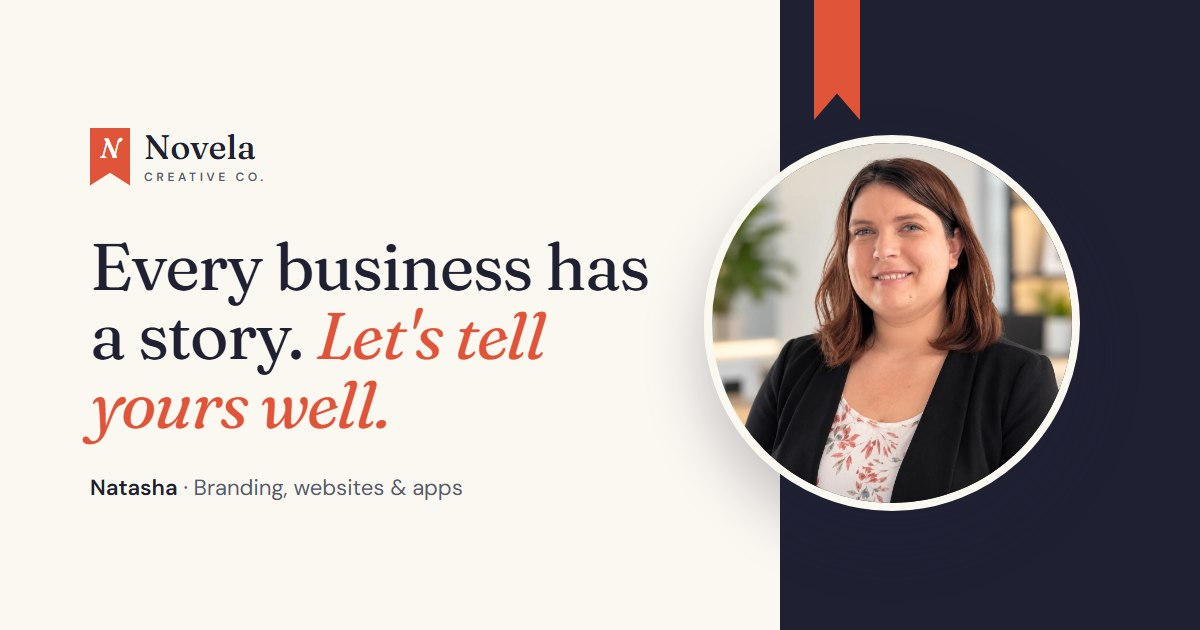
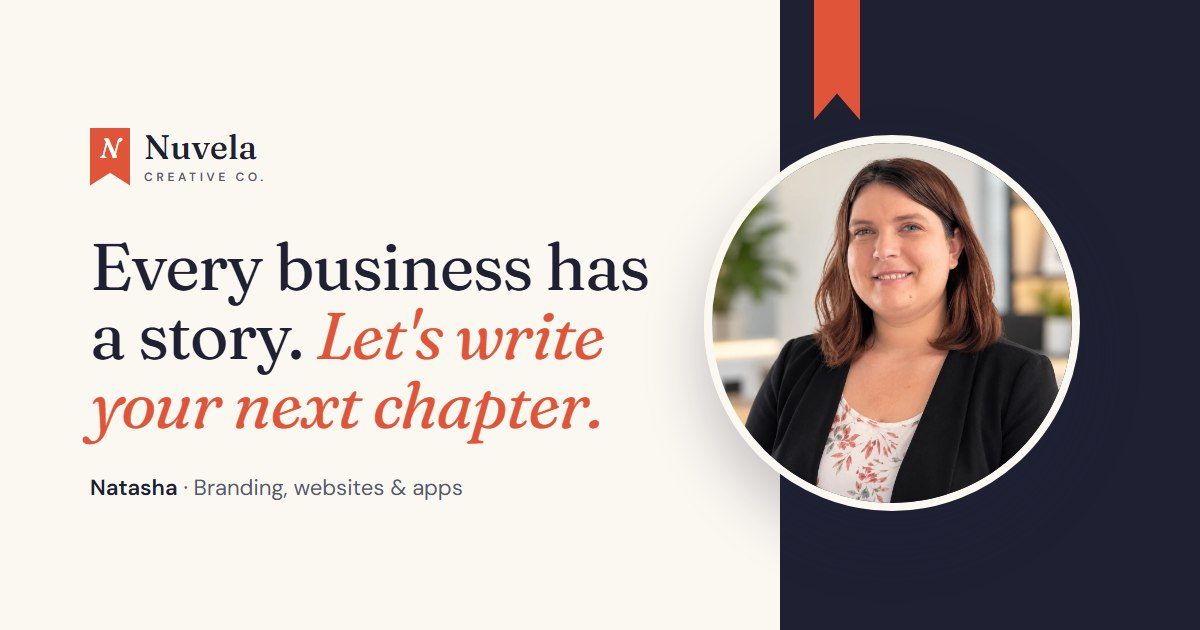
Fix brand spelling: Nuvela (new + story), and tie the copy to that meaning

Changed region(s): [[0.185, 0.6032, 0.4933, 0.7238], [0.37, 0.4825, 0.5242, 0.573], [0.1233, 0.2111, 0.2158, 0.2714]]

diff --git a/hardy-web-design/hardy-web-design/public/index.html b/hardy-web-design/hardy-web-design/public/index.html
@@ -3,10 +3,10 @@
 <head>
   <meta charset="utf-8">
   <meta name="viewport" content="width=device-width, initial-scale=1">
-  <title>Novela Creative Co | Branding, Websites &amp; Apps</title>
-  <meta name="description" content="Novela Creative Co is a Michigan creative studio. We design logos and brand identities, build websites, and create custom apps for small businesses, makers and community organizations.">
-  <meta property="og:title" content="Novela Creative Co">
-  <meta property="og:description" content="Branding, websites and apps for small businesses. Every business has a story. Let's tell yours well.">
+  <title>Nuvela Creative Co | Branding, Websites &amp; Apps</title>
+  <meta name="description" content="Nuvela Creative Co is a Michigan creative studio. We design logos and brand identities, build websites, and create custom apps for small businesses, makers and community organizations.">
+  <meta property="og:title" content="Nuvela Creative Co">
+  <meta property="og:description" content="Branding, websites and apps for small businesses. Every business has a story. Let's write your next chapter.">
   <meta property="og:image" content="https://hardywebdesign.vercel.app/images/card-share.jpg">
   <meta name="twitter:card" content="summary_large_image">
   <meta name="theme-color" content="#FBF7F1">
@@ -21,9 +21,9 @@
 
   <header class="nav" id="top">
     <div class="wrap nav__inner">
-      <a class="logo" href="#top" aria-label="Novela Creative Co home">
+      <a class="logo" href="#top" aria-label="Nuvela Creative Co home">
         <span class="logo__mark" aria-hidden="true">N</span>
-        <span class="logo__text">Novela<small>Creative Co.</small></span>
+        <span class="logo__text">Nuvela<small>Creative Co.</small></span>
       </a>
       <button class="nav__toggle" aria-expanded="false" aria-controls="nav-links">
         <span></span><span></span><span class="sr">Menu</span>
@@ -45,8 +45,8 @@
       <div class="wrap hero__grid">
         <div class="hero__copy">
           <p class="eyebrow">Branding · Websites · Apps</p>
-          <h1>Every business has a story. <em>Let&#39;s tell <span class="underline">yours</span> well.</em></h1>
-          <p class="lede">Novela Creative Co is a Michigan creative studio for small businesses, makers and community organizations. We design logos and brand identities, build websites, and create custom apps, so the way you show up matches the work you do.</p>
+          <h1>Every business has a story. <em>Let&#39;s write <span class="underline">your</span> next chapter.</em></h1>
+          <p class="lede">Nuvela Creative Co is a Michigan creative studio for small businesses, makers and community organizations. We design logos and brand identities, build websites, and create custom apps, so the way you show up matches the work you do.</p>
           <div class="hero__ctas">
             <a class="btn" href="/questionnaire">Start a project</a>
             <a class="link-arrow" href="#work">See our work <span aria-hidden="true">→</span></a>
@@ -294,13 +294,14 @@
     <section class="section" id="about">
       <div class="wrap about">
         <figure class="about__photo reveal">
-          <img src="images/natasha.webp" alt="Natasha, founder of Novela Creative Co, smiling in a black blazer" width="1254" height="1254" loading="lazy">
+          <img src="images/natasha.webp" alt="Natasha, founder of Nuvela Creative Co, smiling in a black blazer" width="1254" height="1254" loading="lazy">
           <figcaption><strong>Natasha</strong>Founder &amp; Creative Director</figcaption>
         </figure>
         <div class="about__copy reveal">
           <p class="eyebrow">About</p>
-          <h2>The person behind <em>Novela.</em></h2>
-          <p>I&#39;m Natasha, founder of Novela Creative Co. I help small businesses, makers and community organizations look professional and run more smoothly, through thoughtful branding, well-built websites and practical custom apps.</p>
+          <h2>The person behind <em>Nuvela.</em></h2>
+          <p>I&#39;m Natasha, founder of Nuvela Creative Co. I help small businesses, makers and community organizations look professional and run more smoothly, through thoughtful branding, well-built websites and practical custom apps.</p>
+          <p>The name comes from <em>nu</em>, meaning new, and <em>novela</em>, meaning story. That&#39;s what I help businesses create: a fresh chapter, told well.</p>
           <p>My work ranges from a nail artist&#39;s online shop and a scholarship pageant&#39;s fundraising sites to a crochet pattern app and an on-site estimating tool for a flooring company. Every project starts the same way: understanding how your business runs, who your customers are, and what story you want to tell.</p>
           <p>You work directly with me from the first conversation through launch and beyond. I explain things in plain language, keep pricing clear, and set you up so you can make everyday updates yourself.</p>
           <ul class="about__list">
@@ -369,7 +370,7 @@
   <footer class="footer">
     <div class="wrap footer__inner">
       <div>
-        <a class="logo" href="#top"><span class="logo__mark" aria-hidden="true">N</span><span class="logo__text">Novela<small>Creative Co.</small></span></a>
+        <a class="logo" href="#top"><span class="logo__mark" aria-hidden="true">N</span><span class="logo__text">Nuvela<small>Creative Co.</small></span></a>
         <p class="footer__tag">Branding, websites and apps for small businesses. Based in Michigan.</p>
       </div>
       <nav class="footer__links" aria-label="Footer">
@@ -378,7 +379,7 @@
         <a href="/questionnaire">Start a project</a>
         <a href="/card">Digital card</a>
       </nav>
-      <p class="footer__copy">© <span id="year"></span> Novela Creative Co.</p>
+      <p class="footer__copy">© <span id="year"></span> Nuvela Creative Co.</p>
     </div>
   </footer>
 

diff --git a/hardy-web-design/hardy-web-design/public/card.html b/hardy-web-design/hardy-web-design/public/card.html
@@ -3,11 +3,11 @@
 <head>
   <meta charset="utf-8">
   <meta name="viewport" content="width=device-width, initial-scale=1, viewport-fit=cover">
-  <title>Natasha · Novela Creative Co</title>
-  <meta name="description" content="Natasha, founder of Novela Creative Co. Logos and branding, websites and custom apps for small businesses.">
+  <title>Natasha · Nuvela Creative Co</title>
+  <meta name="description" content="Natasha, founder of Nuvela Creative Co. Logos and branding, websites and custom apps for small businesses.">
   <!-- Link previews when the card is texted or shared. Update the domain in og:url and og:image when the custom domain is live. -->
   <meta property="og:type" content="profile">
-  <meta property="og:title" content="Natasha · Novela Creative Co">
+  <meta property="og:title" content="Natasha · Nuvela Creative Co">
   <meta property="og:description" content="Branding, websites and apps for small businesses. Tap to call, save my contact info or start a project.">
   <meta property="og:url" content="https://hardywebdesign.vercel.app/card">
   <meta property="og:image" content="https://hardywebdesign.vercel.app/images/card-share.jpg">
@@ -41,7 +41,7 @@
 
     .banner { height: 132px; background: var(--ink); position: relative; }
     .banner::after {
-      /* the Novela bookmark hanging from the top edge */
+      /* the Nuvela bookmark hanging from the top edge */
       content: ""; position: absolute; right: 30px; top: 0; width: 28px; height: 58px; background: var(--accent);
       clip-path: polygon(0 0, 100% 0, 100% 100%, 50% 78%, 0 100%);
     }
@@ -113,7 +113,7 @@
 <body>
   <main class="card">
     <div class="banner">
-      <a class="logo" href="/"><b aria-hidden="true">N</b><span>Novela<small>Creative Co.</small></span></a>
+      <a class="logo" href="/"><b aria-hidden="true">N</b><span>Nuvela<small>Creative Co.</small></span></a>
     </div>
 
     <div class="photo">
@@ -209,7 +209,7 @@
 
     // Share: native share sheet on phones, copy the link everywhere else
     document.getElementById("share").addEventListener("click", async () => {
-      const data = { title: "Natasha · Novela Creative Co", text: "Here's Natasha's card from Novela Creative Co. Branding, websites and apps for small businesses:", url: cardUrl };
+      const data = { title: "Natasha · Nuvela Creative Co", text: "Here's Natasha's card from Nuvela Creative Co. Branding, websites and apps for small businesses:", url: cardUrl };
       if (navigator.share) {
         try { await navigator.share(data); return; } catch (e) { if (e.name === "AbortError") return; }
       }
@@ -228,7 +228,7 @@
         "VERSION:3.0",
         "N:;Natasha;;;",
         "FN:Natasha",
-        "ORG:Novela Creative Co",
+        "ORG:Nuvela Creative Co",
         "TEL;TYPE=CELL,VOICE:+1-616-244-8541",
         "TITLE:Founder & Creative Director",
         "URL:" + siteUrl,
@@ -239,7 +239,7 @@
       const blob = new Blob([vcard], { type: "text/vcard;charset=utf-8" });
       const a = document.createElement("a");
       a.href = URL.createObjectURL(blob);
-      a.download = "Natasha-Novela-Creative-Co.vcf";
+      a.download = "Natasha-Nuvela-Creative-Co.vcf";
       document.body.appendChild(a);
       a.click();
       a.remove();

diff --git a/hardy-web-design/hardy-web-design/app/globals.css b/hardy-web-design/hardy-web-design/app/globals.css
@@ -1,6 +1,6 @@
 @import "tailwindcss";
 
-/* Novela Creative Co palette. Matches public/styles.css (home page) and public/card.html. Light-only, like the home page. */
+/* Nuvela Creative Co palette. Matches public/styles.css (home page) and public/card.html. Light-only, like the home page. */
 :root {
   --bg: #fbf7f1;
   --surface: #ffffff;
@@ -45,7 +45,7 @@ body {
 h1, h2 { text-wrap: balance; letter-spacing: -0.015em; }
 h1 em, h2 em { font-style: italic; color: var(--accent-bright); }
 
-/* Logo: the Novela bookmark, same as the home page */
+/* Logo: the Nuvela bookmark, same as the home page */
 .logo-mark {
   display: grid; place-items: start center; width: 34px; height: 44px; padding-top: 5px;
   background: var(--accent-bright); color: #fff;
@@ -55,12 +55,12 @@ h1 em, h2 em { font-style: italic; color: var(--accent-bright); }
 }
 .logo:hover .logo-mark { transform: translateY(-3px); }
 
-.btn-novela {
+.btn-nuvela {
   display: inline-flex; align-items: center; gap: .5em;
   background: var(--ink); color: var(--bg); font-weight: 600; text-decoration: none;
   border-radius: 999px; transition: transform .2s ease, box-shadow .2s ease;
 }
-.btn-novela:hover:not(:disabled) { transform: translateY(-2px); box-shadow: 0 10px 24px rgba(31, 33, 51, 0.18); }
+.btn-nuvela:hover:not(:disabled) { transform: translateY(-2px); box-shadow: 0 10px 24px rgba(31, 33, 51, 0.18); }
 
 :focus-visible { outline: 3px solid var(--accent-bright); outline-offset: 3px; }
 

diff --git a/hardy-web-design/hardy-web-design/public/styles.css b/hardy-web-design/hardy-web-design/public/styles.css
@@ -1,4 +1,4 @@
-/* Novela Creative Co. Shared tokens also live in app/globals.css (questionnaire) and public/card.html. */
+/* Nuvela Creative Co. Shared tokens also live in app/globals.css (questionnaire) and public/card.html. */
 :root {
   --paper: #FBF7F1;
   --white: #FFFFFF;
@@ -58,7 +58,7 @@ p { margin: 0 0 1em; }
 /* ---------- Logo ---------- */
 .logo { display: inline-flex; align-items: center; gap: 12px; text-decoration: none; }
 .logo__mark {
-  /* The bookmark: Novela's signature shape */
+  /* The bookmark: Nuvela's signature shape */
   display: grid; place-items: start center; width: 34px; height: 44px; padding-top: 5px;
   background: var(--accent); color: var(--white);
   font: italic 600 1.35rem/1 var(--serif);

diff --git a/hardy-web-design/hardy-web-design/app/layout.tsx b/hardy-web-design/hardy-web-design/app/layout.tsx
@@ -27,7 +27,7 @@ export default function RootLayout({ children }: { children: React.ReactNode }) 
                 N
               </span>
               <span className="flex flex-col font-display text-2xl font-medium leading-none">
-                Novela
+                Nuvela
                 <small className="mt-1.5 font-body text-[0.62rem] font-semibold uppercase tracking-[0.28em] text-muted">
                   Creative Co.
                 </small>

diff --git a/hardy-web-design/hardy-web-design/components/Questionnaire.tsx b/hardy-web-design/hardy-web-design/components/Questionnaire.tsx
@@ -141,7 +141,7 @@ export default function Questionnaire() {
           <button
             type="submit"
             disabled={status.kind === "sending"}
-            className="btn-novela px-7 py-4 text-base disabled:opacity-60"
+            className="btn-nuvela px-7 py-4 text-base disabled:opacity-60"
           >
             {status.kind === "sending" ? "Sending…" : "Send my answers"}
           </button>

diff --git a/hardy-web-design/hardy-web-design/lib/site.ts b/hardy-web-design/hardy-web-design/lib/site.ts
@@ -1,2 +1,2 @@
-export const STUDIO_NAME = "Novela Creative Co";
+export const STUDIO_NAME = "Nuvela Creative Co";
 export const STUDIO_TAGLINE = "Branding, websites and apps for small businesses. Based in Michigan.";

diff --git a/hardy-web-design/hardy-web-design/README.md b/hardy-web-design/hardy-web-design/README.md
@@ -1,6 +1,6 @@
-# Novela Creative Co
+# Nuvela Creative Co
 
-Next.js + Tailwind + TypeScript site for Novela Creative Co (branding, websites and apps).
+Next.js + Tailwind + TypeScript site for Nuvela Creative Co (branding, websites and apps).
 
 - `/` is the portfolio: plain HTML in `public/index.html` with `public/styles.css`, `public/script.js` and `public/images/`
   (served at `/` by a rewrite in `next.config.ts`). Edit those files directly.
@@ -20,7 +20,7 @@ Submissions are sent with [Resend](https://resend.com) (free for up to 3,000 ema
 
 Until you verify your own domain in Resend, emails come from `onboarding@resend.dev` and can only be
 delivered to your Resend account's email. After verifying a domain, add `FROM_EMAIL`, for example
-`Novela Creative Co <hello@yourdomain.com>`.
+`Nuvela Creative Co <hello@yourdomain.com>`.
 
 ## Editing the questions
 
